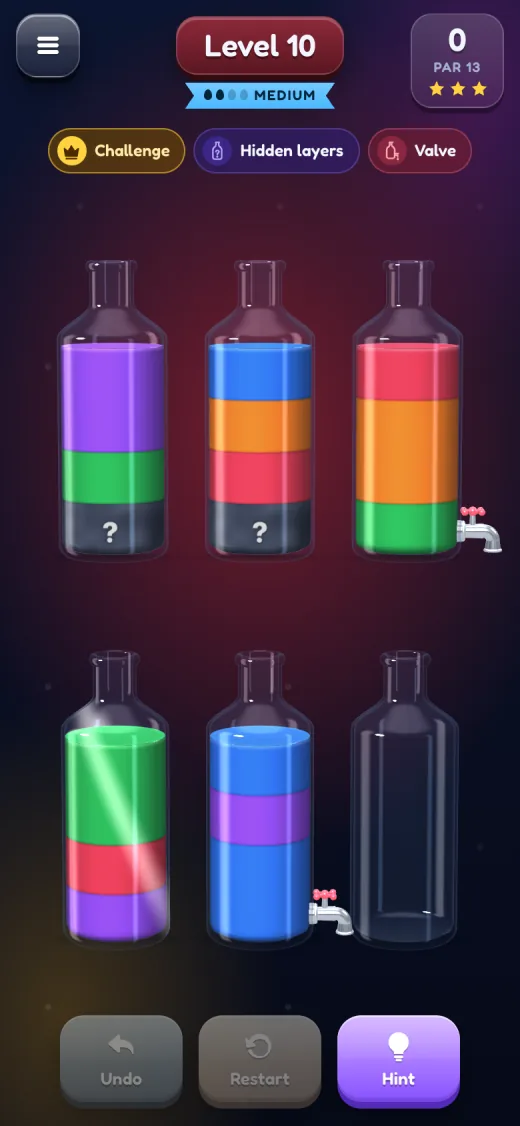
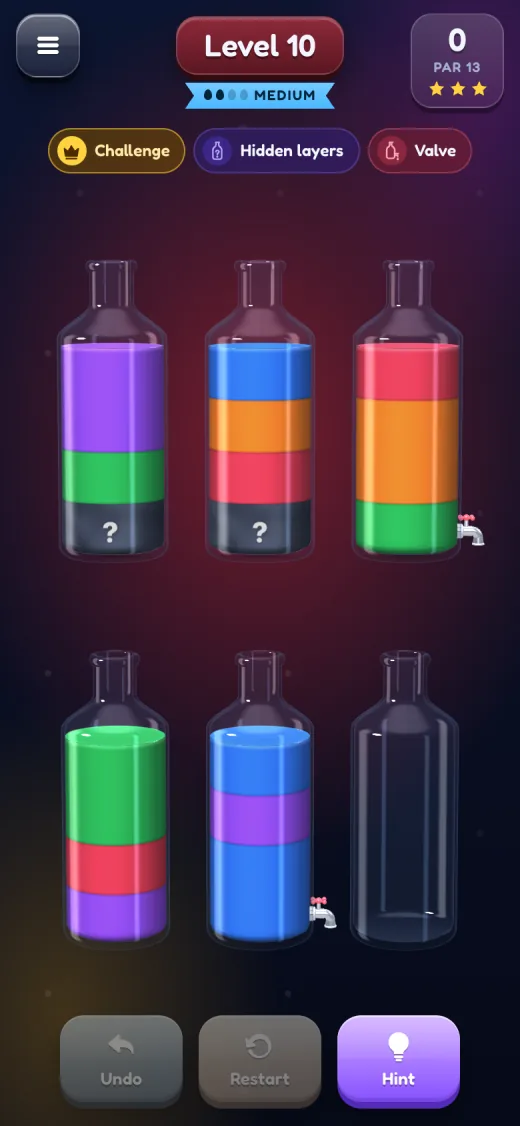
smaller taps, contact shadows only under each bottle
- the faucet is shorter and a third smaller, so it no longer reaches the next
  bottle in the row
- contact shadows were wider than the bottles and merged into a dark stripe
  along each row; they now stay under the base and are lighter

diff --git a/lab/src/render/vessel.ts b/lab/src/render/vessel.ts
@@ -16,7 +16,9 @@ export interface ViewLayer {
 }
 
 export const LIFT = 0.42;
-const TAP_SCALE = 1.25;
+const TAP_SCALE = 0.85;
+/** x of the tap's nozzle in its own frame (the pipe runs from the glass to here) */
+const NOZZLE_X = 0.21;
 
 const _n = new THREE.Vector3();
 const _axis = new THREE.Vector3();
@@ -181,15 +183,15 @@ export class VesselView {
     const collar = new THREE.Mesh(new THREE.TorusGeometry(0.062, 0.016, 10, 24), chromeMat);
     collar.rotation.y = Math.PI / 2;
     collar.position.x = 0.03;
-    const pipe = along(new THREE.Mesh(new THREE.CylinderGeometry(0.05, 0.055, 0.15, 20), chromeMat), 0.105);
-    // quarter torus from the pipe end (0.18, 0) down to the nozzle (0.25, -0.07)
+    const pipe = along(new THREE.Mesh(new THREE.CylinderGeometry(0.05, 0.055, NOZZLE_X - 0.1, 20), chromeMat), (NOZZLE_X - 0.04) / 2);
+    // quarter torus from the pipe end down to the nozzle
     const elbow = new THREE.Mesh(new THREE.TorusGeometry(0.07, 0.05, 12, 16, Math.PI / 2), chromeMat);
-    elbow.position.set(0.18, -0.07, 0);
+    elbow.position.set(NOZZLE_X - 0.07, -0.07, 0);
     const nozzle = new THREE.Mesh(new THREE.CylinderGeometry(0.05, 0.06, 0.07, 20), chromeMat);
-    nozzle.position.set(0.25, -0.105, 0);
+    nozzle.position.set(NOZZLE_X, -0.105, 0);
     const rim = new THREE.Mesh(new THREE.TorusGeometry(0.058, 0.012, 8, 24), chromeMat);
     rim.rotation.x = Math.PI / 2;
-    rim.position.set(0.25, -0.14, 0);
+    rim.position.set(NOZZLE_X, -0.14, 0);
 
     const handle = new THREE.Group();
     const stem = new THREE.Mesh(new THREE.CylinderGeometry(0.02, 0.024, 0.08, 12), chromeMat);
@@ -206,7 +208,7 @@ export class VesselView {
       ball.position.set(Math.cos(a) * 0.088, 0.1, Math.sin(a) * 0.088);
       handle.add(arm, ball);
     }
-    handle.position.set(0.1, 0.045, 0);
+    handle.position.set(0.08, 0.045, 0);
     handle.name = "handle";
     g.add(flange, collar, pipe, elbow, nozzle, rim, handle);
     g.position.set(this.shape.radius - 0.02, 0.24, 0);
@@ -217,7 +219,7 @@ export class VesselView {
 
   /** Valve outlet in the vessel's own frame: the bottom of the tap's nozzle. */
   tapOutletLocal(out: THREE.Vector3) {
-    return out.set(0.25, -0.15, 0).multiplyScalar(TAP_SCALE).add(this.tap!.position);
+    return out.set(NOZZLE_X, -0.15, 0).multiplyScalar(TAP_SCALE).add(this.tap!.position);
   }
 
   /** World position of the valve outlet (for streams). */
@@ -568,13 +570,13 @@ export class VesselView {
       this.placeCork();
     }
 
-    // shadow follows the vessel on the floor
+    // a soft contact shadow under the vessel only: wide ones merged into a stripe along the row
     const lifted = Math.max(0, this.pos.y - this.base.y);
     const r = this.shape.radius;
     this.shadow.position.set(this.pos.x, this.base.y + 0.004, this.base.z);
     const spread = 1 + lifted * 0.35;
-    this.shadow.scale.set(r * 2.7 * spread, r * 1.25 * spread, 1);
-    (this.shadow.material as THREE.MeshBasicMaterial).opacity = Math.max(0, 0.85 - lifted * 1.1);
+    this.shadow.scale.set(r * 1.9 * spread, r * 1.1 * spread, 1);
+    (this.shadow.material as THREE.MeshBasicMaterial).opacity = Math.max(0, 0.6 - lifted * 0.8);
 
     this.updateLiquid(time);
   }
